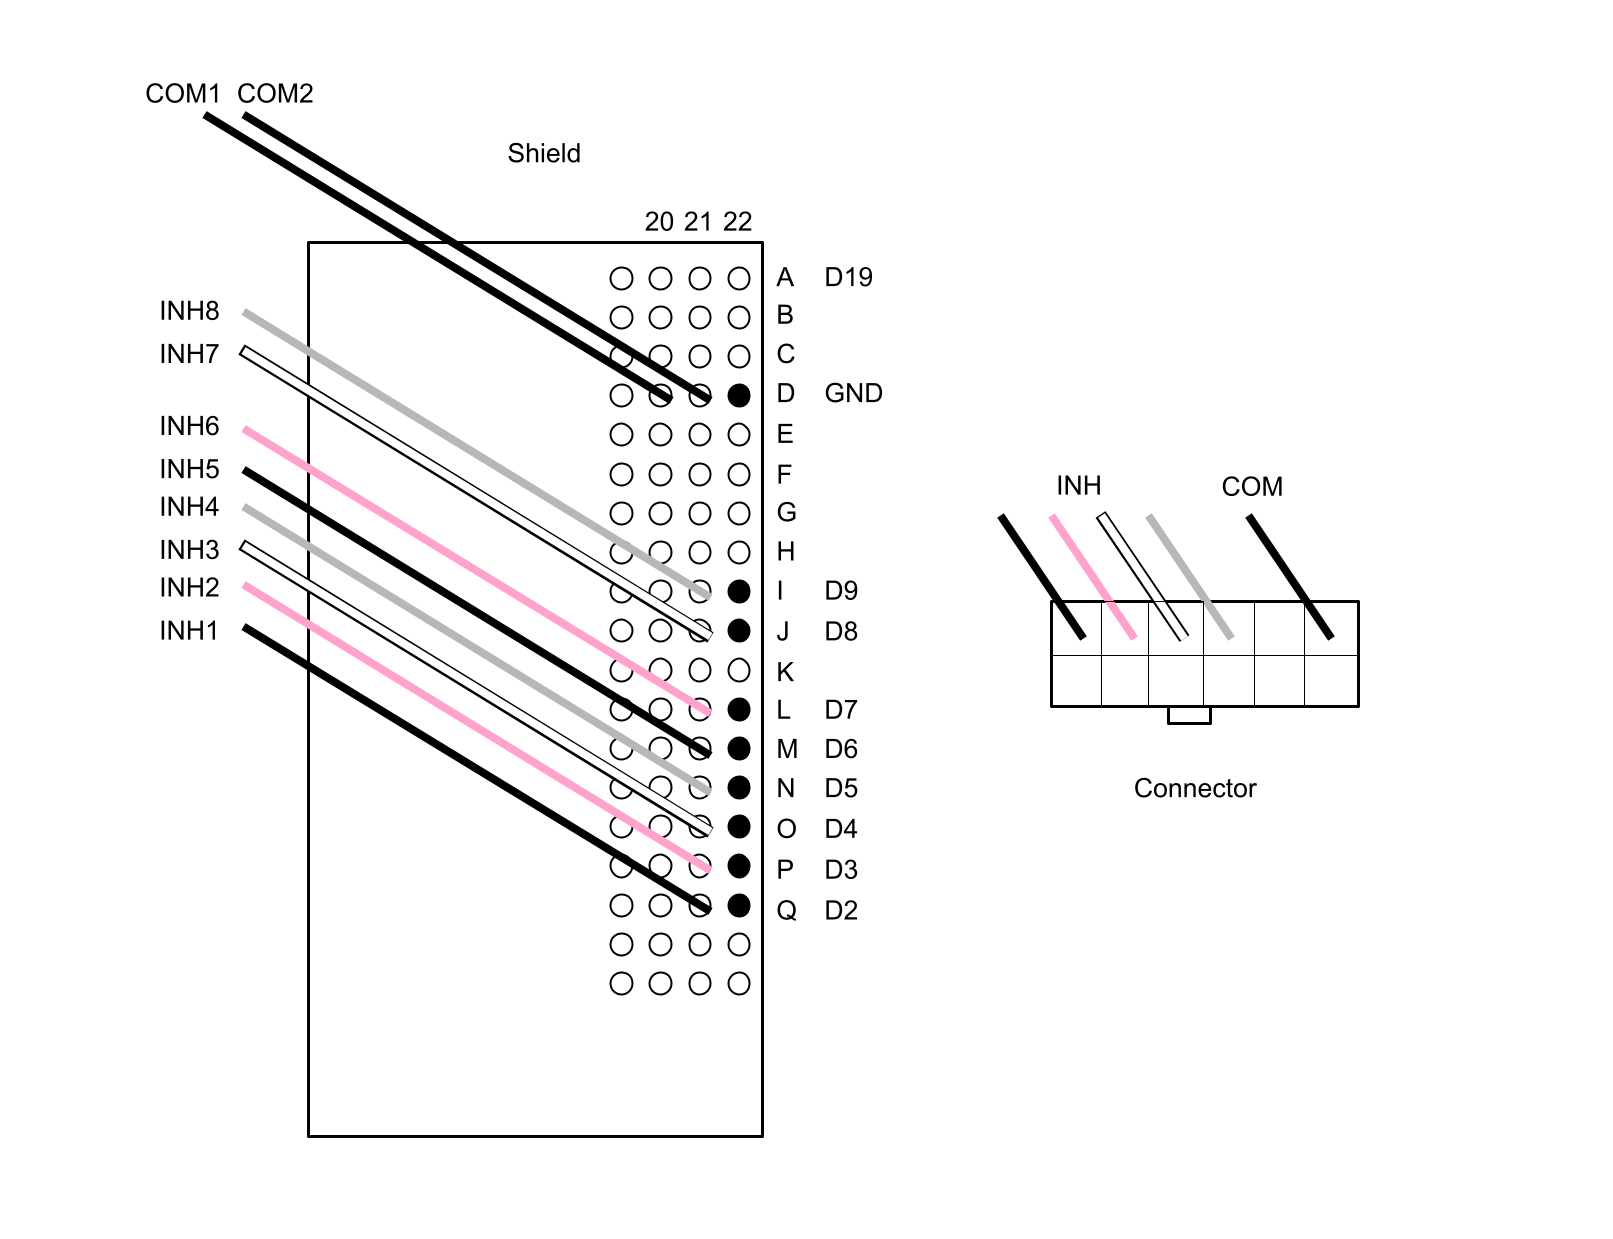
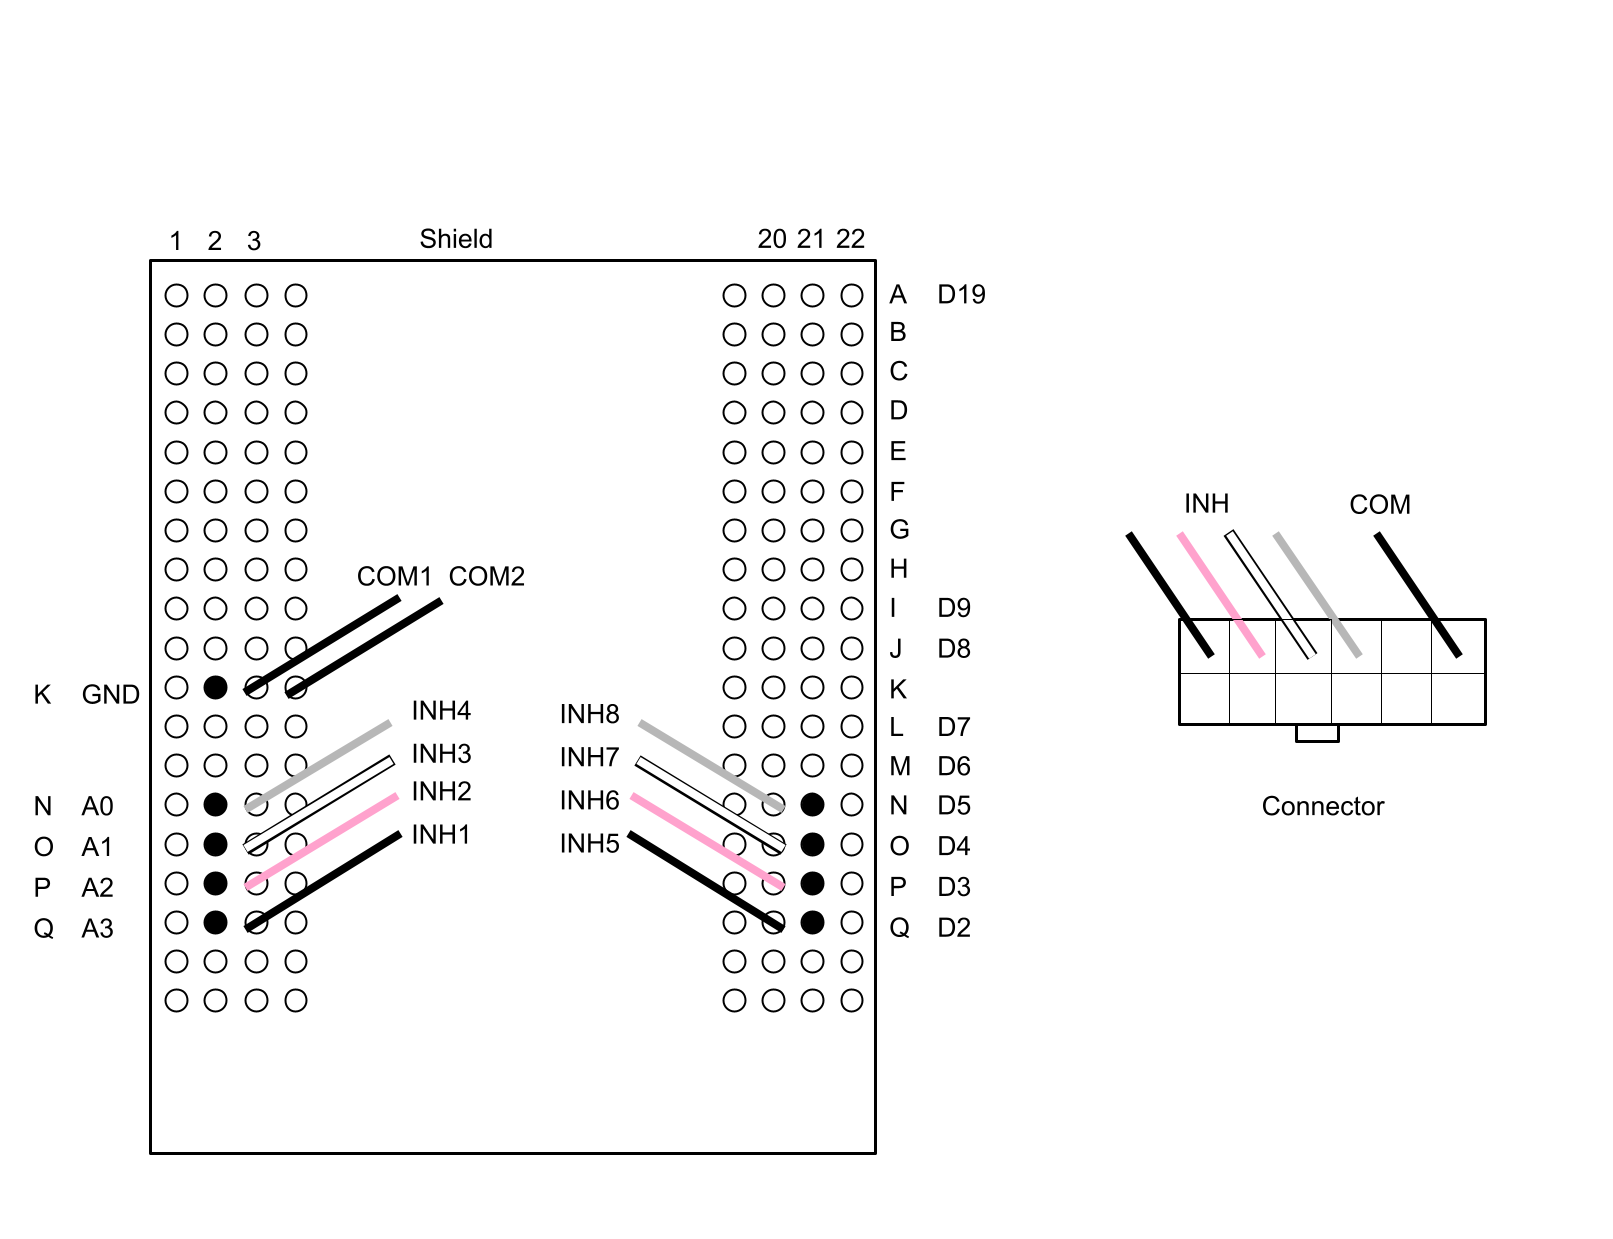
updated pinout and changing state speed problem solved (#5)
* updated cabling schema

* updated the pins used

* updated Arduino pins used

* removed debug comments

* solved changing state speed problem

---------

diff --git a/README.md b/README.md
@@ -29,7 +29,7 @@ The connectors for the Vox Power **must** be :
 
 The inhibiter pinout **must** be :
 
-| Arduino | D2   | D3   | D4   | D5   | D6   | D7   | D8   | D9   | GND  |
+| Arduino | D2   | D3   | D4   | D5   | A0   | A1   | A2   | A3   | GND  |
 | :------ | :--: | :--: | :--: | :--: | :--: | :--: | :--: | :--: | :--: |
 | Vox     | INH1 | INH2 | INH3 | INH4 | INH5 | INH6 | INH7 | INH8 | COM  |
 
